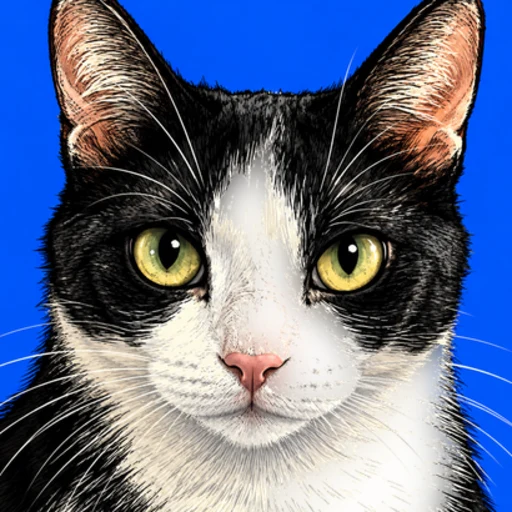
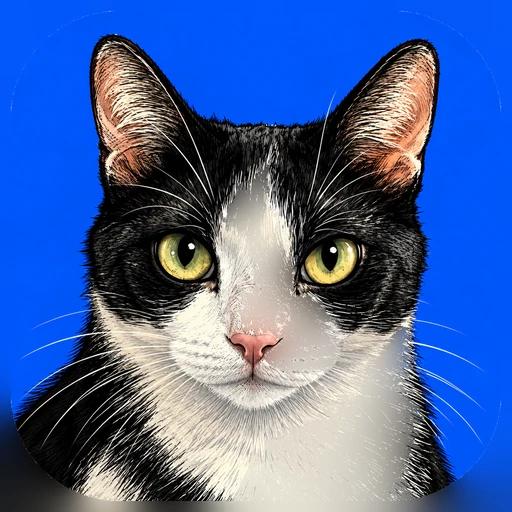
fix(brand): square project covers by diffusion fill, plus round-three polish (#17)
Covers: all five project icons are rebuilt from the pack at
`iconos mepersoft/` with a diffusion fill (60 passes of a 20px blur, the opaque
pixels restored each pass) instead of a crop, so the tile's rounded corners and
the keyed-out fur take the colour of what surrounds them. Nothing is cropped, so
no ear is clipped; nothing is repainted, so no colour changes; nothing is left
transparent, so no frame or card background shows through. Luna is all black
again, chest included, and the v2 pack was dropped for being brighter and for
wrapping each tile in a white ring.

Cluster: below lg it moves into the strip the content leaves free (4px off the
edge, 10px from sm up) so it never overlaps a card.
Rail: the experience line keeps its draw-in and gains a slow accent sheen,
switched off under prefers-reduced-motion.
Mobile: plugin cards no longer force a 504px min-content inside a 390px
viewport, so the page stops scrolling sideways.

diff --git a/tests/visual.test.ts b/tests/visual.test.ts
@@ -296,7 +296,7 @@ describe.runIf(hasBrowser)('rendered appearance', () => {
   );
 
   it(
-    'renders every loaded project cover opaque, corners included',
+    'renders every project cover opaque, corners included, with no keyed holes',
     async () => {
       const page = await openSite();
       // Covers are lazy, so they only fetch once the section is in view. Waiting on
@@ -319,14 +319,27 @@ describe.runIf(hasBrowser)('rendered appearance', () => {
             canvas.height = img.naturalHeight;
             const ctx = canvas.getContext('2d');
             ctx?.drawImage(img, 0, 0);
-            const px = (x: number, y: number) => Array.from(ctx?.getImageData(x, y, 1, 1).data ?? []);
+            const data = ctx?.getImageData(0, 0, canvas.width, canvas.height).data ?? new Uint8ClampedArray();
+            const alphaAt = (x: number, y: number) => data[(y * canvas.width + x) * 4 + 3];
+            // Two bugs live here. A transparent corner is the frame showing through
+            // (the tile's rounded edge or the pack's white ring), and a transparent
+            // patch inside is a keyed hole where the light fur was. The covers are
+            // full-bleed squares, so both are wrong now.
+            const inset = Math.round(canvas.width * 0.12);
+            let holes = 0;
+            for (let y = inset; y < canvas.height - inset; y += 1) {
+              for (let x = inset; x < canvas.width - inset; x += 1) {
+                if (alphaAt(x, y) < 255) holes += 1;
+              }
+            }
             return {
               src: img.getAttribute('src') ?? '',
+              holes,
               corners: {
-                'top-left': px(0, 0),
-                'top-right': px(canvas.width - 1, 0),
-                'bottom-left': px(0, canvas.height - 1),
-                'bottom-right': px(canvas.width - 1, canvas.height - 1),
+                'top-left': alphaAt(0, 0),
+                'top-right': alphaAt(canvas.width - 1, 0),
+                'bottom-left': alphaAt(0, canvas.height - 1),
+                'bottom-right': alphaAt(canvas.width - 1, canvas.height - 1),
               },
             };
           }),
@@ -334,12 +347,33 @@ describe.runIf(hasBrowser)('rendered appearance', () => {
 
       expect(covers.length, 'at least one cover must be measurable').toBeGreaterThan(0);
       for (const cover of covers) {
-        for (const [corner, pixel] of Object.entries(cover.corners)) {
-          // A transparent or black corner is the bug that shipped twice: keying the
-          // art's light background punched the mascots' white fur into holes.
-          expect(pixel[3], `${cover.src} ${corner} alpha`).toBe(255);
+        expect(cover.holes, `${cover.src} has transparent pixels inside it`).toBe(0);
+        for (const [corner, alpha] of Object.entries(cover.corners)) {
+          expect(alpha, `${cover.src} ${corner} alpha`).toBe(255);
         }
       }
+      await page.close();
+    },
+    TEST_TIMEOUT,
+  );
+
+  it(
+    'animates the experience timeline and stops under reduced motion',
+    async () => {
+      const page = await openSite();
+      await page.evaluate(() => document.getElementById('experience')?.scrollIntoView());
+      await new Promise((resolve) => setTimeout(resolve, 800));
+
+      const sheen = () =>
+        page.evaluate(() => {
+          const line = document.querySelector('.timeline-line');
+          return line ? getComputedStyle(line, '::after').animationName : null;
+        });
+
+      expect(await sheen(), 'the rail must carry its sheen').toBe('timeline-sheen');
+
+      await page.emulateMediaFeatures([{ name: 'prefers-reduced-motion', value: 'reduce' }]);
+      expect(await sheen(), 'reduced motion must stop the sheen').toBe('none');
       await page.close();
     },
     TEST_TIMEOUT,
@@ -437,10 +471,25 @@ describe.runIf(hasBrowser)('rendered appearance', () => {
       // the bottom edge.
       const cluster = await page.$eval('[data-cmdk-open]', (el) => {
         const rect = el.parentElement!.getBoundingClientRect();
-        return { right: rect.right, bottom: rect.bottom };
+        return { left: rect.left, right: rect.right, bottom: rect.bottom };
       });
-      expect(Math.round(MOBILE.width - cluster.right), 'cluster right offset').toBe(24);
+      expect(Math.round(MOBILE.width - cluster.right), 'cluster right offset').toBe(4);
       expect(Math.round(MOBILE.height - cluster.bottom), 'cluster bottom offset').toBe(56);
+
+      // The point of that offset: the cluster lives in the strip the content
+      // leaves free, so it never sits over a card or a line of text.
+      const widestContent = await page.evaluate(() =>
+        Math.max(
+          ...Array.from(
+            document.querySelectorAll(
+              '#projects [data-locale="es"] [data-card-open], #plugins [data-locale="es"] [data-card-open]',
+            ),
+          ).map((el) => el.getBoundingClientRect().right),
+        ),
+      );
+      expect(cluster.left, 'the cluster must clear the content it floats over').toBeGreaterThanOrEqual(
+        Math.round(widestContent),
+      );
 
       // And it is a column, not a row: the four controls share one centre line and
       // stack downward, in DOM order. In a row they consumed most of the width.

diff --git a/tests/structure.test.ts b/tests/structure.test.ts
@@ -54,10 +54,10 @@ describe('structural invariants', () => {
   it('keeps the control cluster reachable while scrolling', () => {
     // Absolute positioning scrolled the theme switch and the back-to-top away
     // with the page, which is exactly when you need them. Below lg the offsets
-    // are the content gutter (24px) and a clear lift off the viewport floor
-    // (56px): at 16px the cluster read as jammed into the corner, and at 24px it
-    // still hugged the bottom edge instead of sitting clear above it.
-    expect(index).toMatch(/fixed[^"]*bottom-14 right-6/);
+    // put the cluster in the strip the content leaves free: 4px off the right
+    // edge (10px from sm up) and 56px off the floor, so it clears both the cards
+    // and the footer instead of hugging the corner or sitting over text.
+    expect(index).toMatch(/fixed[^"]*bottom-14 right-1/);
     expect(index).toContain('data-theme-toggle');
     expect(index).toContain('data-scroll-top');
     // One column on the narrow layout, one row on lg: in a row the four controls
@@ -90,7 +90,7 @@ describe('structural invariants', () => {
     // identity column, which left two control groups on the same band. They belong
     // to the cluster at the top-right of <main>, which is also the only one that
     // escapes the column's overflow clipping.
-    const from = index.indexOf('bottom-14 right-6');
+    const from = index.indexOf('bottom-14 right-1');
     const to = index.indexOf('data-theme-menu');
     expect(from, 'the cluster must exist').toBeGreaterThan(0);
     expect(to, 'the theme menu must exist').toBeGreaterThan(from);
@@ -131,6 +131,16 @@ describe('structural invariants', () => {
     expect(plugins).toContain('data-card-marketplace');
     expect(index).toContain('data-card-modal-marketplace');
     expect(appTs).toContain('cardMarketplace');
+  });
+
+  it('keeps the experience timeline in motion', () => {
+    // The rail draws in on reveal (the entrance) and then carries a slow accent
+    // sheen, which is the "sensation of movement" the owner asked for. Both the
+    // keyframes and the reduced-motion switch-off are pinned, because an
+    // infinite animation that survives prefers-reduced-motion is a bug.
+    expect(globalCss).toContain('@keyframes timeline-sheen');
+    expect(globalCss).toMatch(/\.timeline-line::after[\s\S]{0,400}animation: timeline-sheen/);
+    expect(globalCss).toMatch(/prefers-reduced-motion[\s\S]{0,900}\.timeline-line::after\s*\{\s*animation: none/);
   });
 
   it('opens the CV preview without the pages panel', () => {

diff --git a/src/styles/global.css b/src/styles/global.css
@@ -884,9 +884,14 @@
 }
 
 /* ---------------------------------------------------------------------------
- * Experience timeline: the line draws and the dot pops when its item reveals
+ * Experience timeline: the line draws in on reveal, then a slow accent sheen
+ * travels down the rail. The draw-in is the entrance; the sheen is the
+ * continuous motion the owner asked for, and it is clipped to the 1px column so
+ * it never paints outside the rail. Reduced motion above drops it entirely.
  * ------------------------------------------------------------------------- */
 .timeline-line {
+  position: relative;
+  overflow: hidden;
   transform: scaleY(0);
   transform-origin: top;
   background: linear-gradient(to bottom, var(--color-hairline-strong), var(--color-hairline));
@@ -895,6 +900,26 @@
 
 [data-reveal].is-visible .timeline-line {
   transform: scaleY(1);
+}
+
+.timeline-line::after {
+  content: '';
+  position: absolute;
+  inset: 0;
+  background: linear-gradient(
+    to bottom,
+    transparent 25%,
+    color-mix(in oklch, var(--color-primary) 85%, white) 50%,
+    transparent 75%
+  );
+  transform: translateY(-100%);
+  animation: timeline-sheen 4.5s cubic-bezier(0.45, 0, 0.35, 1) 1.1s infinite;
+}
+
+@keyframes timeline-sheen {
+  to {
+    transform: translateY(100%);
+  }
 }
 
 .timeline-dot {
@@ -1147,6 +1172,10 @@
   .timeline-dot {
     transform: none;
     transition: none;
+  }
+
+  .timeline-line::after {
+    animation: none;
   }
 
   .split-nav a,

diff --git a/odd/tasks/visual-polish.md b/odd/tasks/visual-polish.md
@@ -46,9 +46,25 @@ S10 — Look'n'Feel is the first plugin and carries the mascot art the owner sen
 Quote: "dejame look'n'feel de primer plugin y cambile el icono por este: [Image 5]"
 Acceptance: the plugins list opens with `Look'n'Feel`, then `devstack`, then `Work connection` (both locales, by content filename order), and its cover is the sent art — the Siamese on terracotta, shipped as `/plugins/looknfeel.webp`, an 88% centred crop of the file's rounded tile so no surround colour reaches the corners.
 
-S11 — BrokerApp's cover carries the sent Luna art, whole head and no zoom. Corrected twice by the owner: first "NO, quiero que le cambias el gato al propio brokerapp por la luna que te envie", then a side-by-side: "la del sitio [Image 1] ... la que tienes que usar [Image 2]".
-Reading, settled by the second round's comparison: the mascot was never wrong — the framing was. The site's icons are 80% centred crops of their brand-pack tiles, and Luna's tile is the only one whose ear tips fall inside that outer 10%, so it was the single card rendering a clipped head; an 86% crop still zoomed too far. Acceptance: `public/apps/brokerapp/icon.webp` is the whole tile — trimmed, not cropped — with the rounded tile's transparent corners flood-filled and flattened onto the tile's own gold (`srgb(246,205,139)`), opaque, square 512x512, so the card shows the head with its margins exactly as the art does.
-Status: done. History: 80% crop (round 1) -> 86% crop -> the whole tile.
+S11 — The project covers are full-bleed squares built from the art the owner points at, with whole heads, no frames and no recolouring.
+Quotes, five rounds of them: "el logo de meperboard, cambia esa imagen por esta"; "NO, quiero que le cambias el gato al propio brokerapp por la luna que te envie"; "eso que hiciste con la foto de Luna, de acomodar mejor el margen para no cortar als orejas hazlo con las demas, sin alterar la imagen en si /home/meper/Projects/iconos mepersoft/"; "luna origuinalmente es toda negra"; "no quiero dobles marcos y se deben adapatar al estilo cuadrado que tiene mi sitio"; "con Luna pudiste hacerlo sin tenerle que cortar las orejas, lastima lo del color del fondo que se le ve. Pero si logras hacer eso con todos sin cambiarme los colores super bien".
+Reading, settled by measurement: the pack at `iconos mepersoft/` is the art the owner wants (the v2 pack in `~/Downloads` is the same drawings but ~10% brighter with a white ring around each tile, so it was dropped). That pack has keyed-out light fur — 9.5% of Luna's canvas, 9.4% of Mochi's, 3.3% of Yummi's — plus the tile's own rounded frame, and a 92% crop cannot remove the frame without clipping Luna's ear tips (the site's original 80% crop is exactly that bug).
+Acceptance: each `public/apps/*/icon.webp` is the pack's `icon-1024.png` with every transparent region filled by **diffusion** — 60 passes of a 20px blur with the opaque pixels restored each pass, so the tile's rounded corners and the keyed fur take the colour of what surrounds them (gold at Luna's top corners, fur at the bottom, black where her chest was). Then resized to a 512x512 **square**, fully opaque, no crop, no recolouring, and the whole head visible. Verified: 0% transparent pixels in all five, every rendered cover's four corners at alpha 255, and no transparent patch inside.
+Status: done. History: 80% crop of the old pack (round 1) -> 86% crop -> whole tile with gold-filled corners -> v2 whole tile with transparent corners -> this.
+
+S17 — No double frames, and the icons follow the site's square style.
+Quote: "no quiero dobles marcos y se deben adapatar al estilo cuadrado que tiene mi sitio".
+Acceptance: no project cover shows a second frame — neither the art's rounded tile edge nor the pack's white/dark ring — and none relies on transparency, which is what let the card's background read as a frame. The renders are square, opaque, and the cover keeps the site's zero-radius geometry: the image fills its box at 92% with no rounding of its own.
+
+S14 — Below `lg` the controls live in the strip the content leaves free.
+Quote: "Los botones me gustan asi, pero mira que quiero que permanezcan siempre en medio del borde y del margen que mantiene el scroll de las secciones asi: [Image 2] para siempre evitar que queden encima de alguna card o texto".
+Acceptance: below `lg` the cluster keeps its column, its 56px lift and its bottom-right anchor, and moves into the corridor: 4px off the right edge on phones and 10px from `sm` up, so its left edge is never left of the widest card. `lg` keeps the single row at the top-right. Measured at 390x844: cluster left 345 against a content right edge of 338.
+
+S15 — The experience timeline moves.
+Quote: "Le puedes poenr alguna animacion o sensacion de movimiento a esta linea en experiencie [Image 3]?"
+Acceptance: the rail keeps its draw-in on reveal and adds a slow accent sheen travelling down it (4.5s, clipped to the 1px column), and `prefers-reduced-motion: reduce` removes the animation entirely. Verified in a real browser both ways: the computed `::after` animation is `timeline-sheen` normally and `none` under reduced motion, and two frames of the rail 1.7s apart differ.
+
+S16 — Mobile has no horizontal overflow. Found while implementing S14: the plugin cards' `truncate` line made their min-content 504px inside a 390px viewport, so the whole page scrolled sideways and the cards ran under the cluster. Acceptance: `document.documentElement.scrollWidth` equals the viewport width at 390px, every card is 285px wide, and the widest card edge (338) clears the cluster (345).
 
 S13 — Below `lg` the control cluster stacks vertically.
 Quote: "sigo esperando que estas opciones en responsive mobile se ajusten en vertical y no en horizontal", with a crop of the four controls sitting in a row across the narrow viewport.
@@ -78,6 +94,11 @@ T17 (S1/S6/S9/S10) Test updates: art share floor raised to 0.85, mobile cluster 
 T18 (S11) BrokerApp cover rebuilt from the Luna tile: 86% centred crop (the tile's rounded-corner inset measures 8.69%), transparent corners flattened onto the tile's own gold, 512x512 opaque webp — inline — superseded by T19.
 T19 (S11) BrokerApp cover rebuilt again, this time from the whole tile: `-trim` (no crop), the four transparent corner regions flood-filled and the anti-aliased edge flattened onto `srgb(246,205,139)`, forced to a square 512x512 — inline — done. The card now renders the head with the margins the art itself has. Rejected on the way: a blurred-zooomed backdrop (pulled the dark fur into the corners) and an RGB dilation (smeared the whole art).
 T20 (S13) Cluster: `flex-col items-end` below `lg`, `lg:flex-row lg:items-center` above it, plus the comment, the structural regex and the rendered column assertions — inline — done. Measured at 390x844: centres within 1px, tops strictly increasing, cluster 24px/56px off the edges.
+T21 (S14) Cluster moved into the content corridor: `right-1` and `sm:right-2.5` below `lg`, keeping the 56px lift and the column — inline — done. Measured at 390x844: cluster 345-386 against a 338px content edge.
+T22 (S15) Experience rail: draw-in kept, a 4.5s accent sheen added, clipped to the 1px column and switched off under reduced motion — inline — done. Verified both ways in the browser and by two rail frames 1.7s apart differing.
+T23 (S16) Mobile overflow: plugin cards no longer force 504px inside a 390px viewport (`min-w-0` on the card plus explicit `minmax(0,1fr)` grid columns in both pagers) — inline — done. `scrollWidth` is now 390 and every card is 285px wide.
+T24 (S11/S17) All five project covers rebuilt from the pack at `iconos mepersoft/` by diffusion fill (60 passes, 20px blur, opaque pixels restored each pass), resized to square 512x512, fully opaque, no crop — inline — done. Luna keeps her whole head and is all black; no cover shows a second frame or a transparent edge.
+T25 (S11) The cover check went back to its strict form — every corner opaque — and keeps the keyed-hole scan, now over the whole interior — inline — done. Suite 71/71.
 
 ## Log
 
@@ -147,6 +168,18 @@ L22 — The frame comparison is the useful part: the site's cover clipped the ea
 L23 — S13 also retro-explains S6: the owner's "quede mejor sobre el borde hacia arriba" was about the controls stacking upward in a column, which the 56px lift alone could not deliver. Both are in place now: column below `lg`, single row at `lg`.
 
 L24 — Verification for this round: suite 69/69, `astro check` 0 errors, build exit 0; rendered pass confirming the 24px/56px anchors, the shared centre line and the strictly increasing tops of the four controls, and the BrokerApp cover rendering 512x512 opaque with the gold corners.
+
+L25 (verbatim, owner — fifth and sixth messages):
+> [Image 1] ?????
+> Luna se volvio blanca ahora, gracias
+> [Image 1] [Image 2] [Image 3] ??? por que se ven asi de brillantes?
+> Una cosa recuerda que no quiero dobles marcos y se deben adapatar al estilo cuadrado que tiene mi sitio
+> con Luna pudiste hacerlo sin tenerle que cortar las orejas, lastima lo del color le fondo que se le ve. Pero si logras hacer eso con todos sin cambiarme los colores super bien
+
+L26 — The diffs the owner was reading were mine, uncommitted, in their editor: left the committed file, right the working tree. Two conclusions came out of that exchange. First, the v2 pack is the same drawings but brighter and it wraps each tile in a white ring, so it was dropped even though it is the only pack without keyed holes: the brightness and the ring are visible regressions against the art the owner approves. Second, "dobles marcos" plus "estilo cuadrado" settles the shape: the covers must be opaque squares with no tile edge, no ring and no cropping deep enough to touch the ears.
+
+L27 — Diffusion fill is what made those two constraints compatible: the pack's own pixels are never repainted (the opaque area is restored on every pass), so the fill only ever paints where the art had nothing — the rounded corners and the keyed fur. That is why Luna is all black now without inventing a colour, and why no ear had to be cut: nothing is cropped at all.
+
 
 
 
